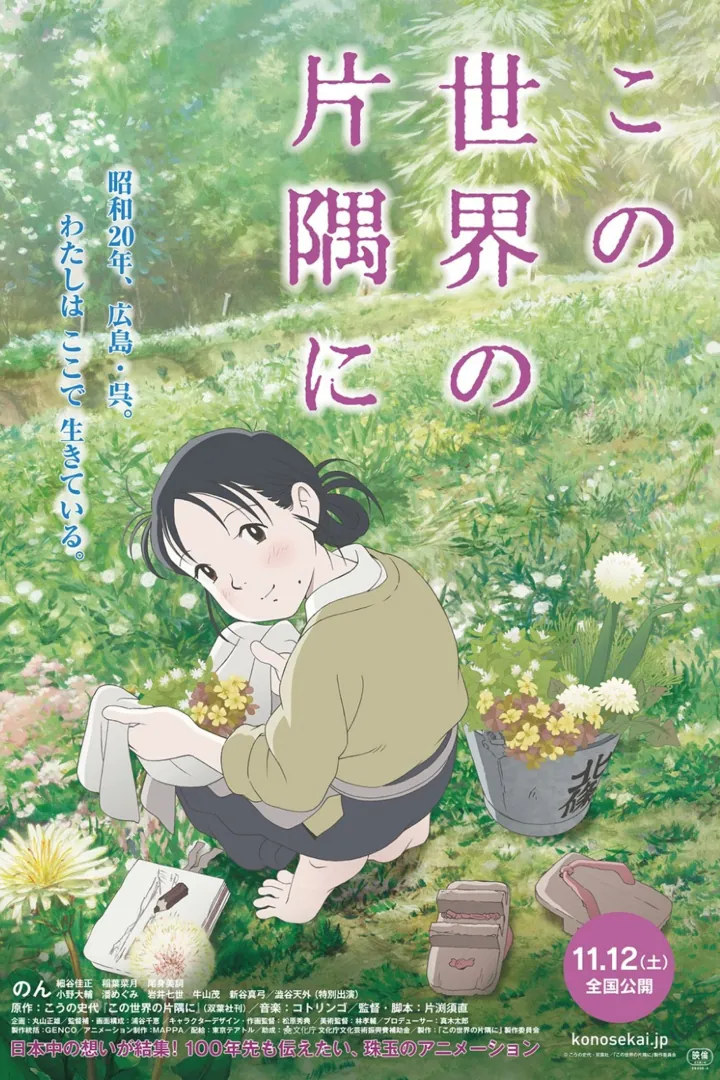
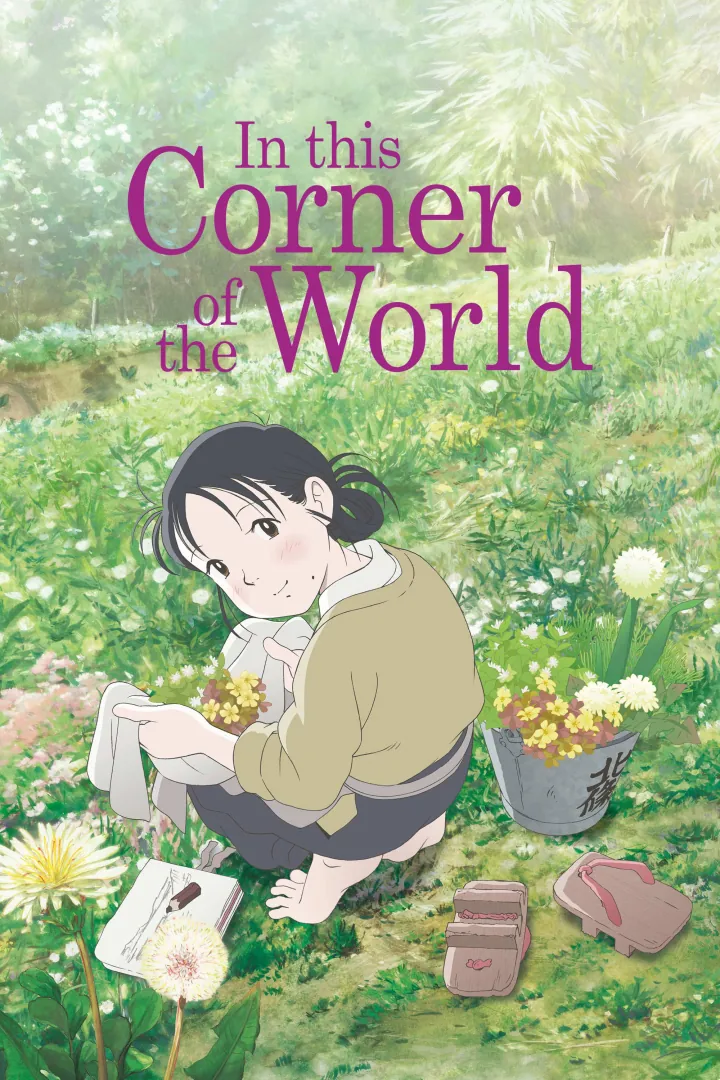
fix(shelf): give every poster the title its card uses
Seven posters carried their title in Japanese or Korean script while the
card under them says A Silent Voice, Parasite or Vagabond. The poster is
what people remember, so the words on it should be the words they read
below it. Each is now a release that prints the title in Latin letters:

- A Silent Voice, In This Corner of the World and Parasite: the English
  release of the same key art, from TMDB.
- Frieren: VIZ's Frieren: Beyond Journey's End, the same cover art, from
  MangaDex.
- Berserk: Dark Horse's volume 1, the same Jets Comics art, clean at
  1538px. That also settles the old question of the soft original.
- The Greatest Estate Developer: I found no English print, but the
  German Papertoons edition kept the English title on the same art.
- Vagabond: VIZ's VIZBIG volume 1, a different drawing. The painted
  portrait only exists with a Latin title in low resolution (a 2002 VIZ
  photo, a 1000px Ivrea upscale, a 328px scan), and it measured as soft
  as the posters this branch set out to replace.

Redline keeps its poster: REDLINE is already written across it. The
footer's sources follow the art: Amazon joins, Wikipedia drops out.

diff --git a/src/content/shelf-placeholders.ts b/src/content/shelf-placeholders.ts
@@ -6,13 +6,13 @@
 
 export const POSTER_PLACEHOLDERS: Record<string, string> = {
   'a-silent-voice':
[2 lines of base64/hex data omitted]
   'about-time':
[1 lines of base64/hex data omitted]
   'banana-fish':
[1 lines of base64/hex data omitted]
   berserk:
[2 lines of base64/hex data omitted]
   'bojack-horseman':
[1 lines of base64/hex data omitted]
   'brooklyn-nine-nine':
@@ -22,7 +22,7 @@ export const POSTER_PLACEHOLDERS: Record<string, string> = {
   'fate-zero':
[1 lines of base64/hex data omitted]
   frieren:
[2 lines of base64/hex data omitted]
   'god-of-war':
[1 lines of base64/hex data omitted]
   'gurren-lagann':
@@ -32,7 +32,7 @@ export const POSTER_PLACEHOLDERS: Record<string, string> = {
   'hollow-knight':
[1 lines of base64/hex data omitted]
   'in-this-corner-of-the-world':
[2 lines of base64/hex data omitted]
   invincible:
[1 lines of base64/hex data omitted]
   'it-takes-two':
@@ -48,7 +48,7 @@ export const POSTER_PLACEHOLDERS: Record<string, string> = {
   'on-the-way-to-meet-mom':
[1 lines of base64/hex data omitted]
   parasite:
[2 lines of base64/hex data omitted]
   parasyte:
[1 lines of base64/hex data omitted]
   redline:
@@ -62,7 +62,7 @@ export const POSTER_PLACEHOLDERS: Record<string, string> = {
   'the-gentlemen':
[1 lines of base64/hex data omitted]
   'the-greatest-estate-developer':
[2 lines of base64/hex data omitted]
   'the-last-of-us':
[1 lines of base64/hex data omitted]
   'the-midnight-gospel':
@@ -70,7 +70,7 @@ export const POSTER_PLACEHOLDERS: Record<string, string> = {
   'the-nice-guys':
[1 lines of base64/hex data omitted]
   vagabond:
[2 lines of base64/hex data omitted]
   'what-remains-of-edith-finch':
[1 lines of base64/hex data omitted]
 };

diff --git a/src/content/es/shelf.ts b/src/content/es/shelf.ts
@@ -134,8 +134,8 @@ export const shelf: ShelfContent = {
 
   disclaimer:
     'Las portadas y los pósteres de esta página pertenecen a sus creadores y editoriales. ' +
-    'Están aquí para señalarte la obra, no como algo mío. Fuentes: TMDB, Steam, MangaDex, ' +
-    'Kyobo, WEBTOON y Wikipedia.',
+    'Están aquí para señalarte la obra, no como algo mío. Fuentes: TMDB, Steam, Amazon, ' +
+    'MangaDex, Kyobo y WEBTOON.',
 
   /* Echoes the title: "vuelvo" there, "volver a" here. */
   colophon: 'Hecho de volver a ver, a leer y a jugar',

diff --git a/src/content/en/shelf.ts b/src/content/en/shelf.ts
@@ -155,7 +155,7 @@ export const shelf = {
   disclaimer:
     'Cover and poster artwork on this page belongs to its creators and publishers. It is ' +
     'reproduced here to point you at the work, and is not presented as mine. Sources: ' +
-    'TMDB, Steam, MangaDex, Kyobo, WEBTOON and Wikipedia.',
+    'TMDB, Steam, Amazon, MangaDex, Kyobo and WEBTOON.',
 
   /* Where the portfolio's footer lists what it is built with. The shelf is
      made of the thing its title is about. */
